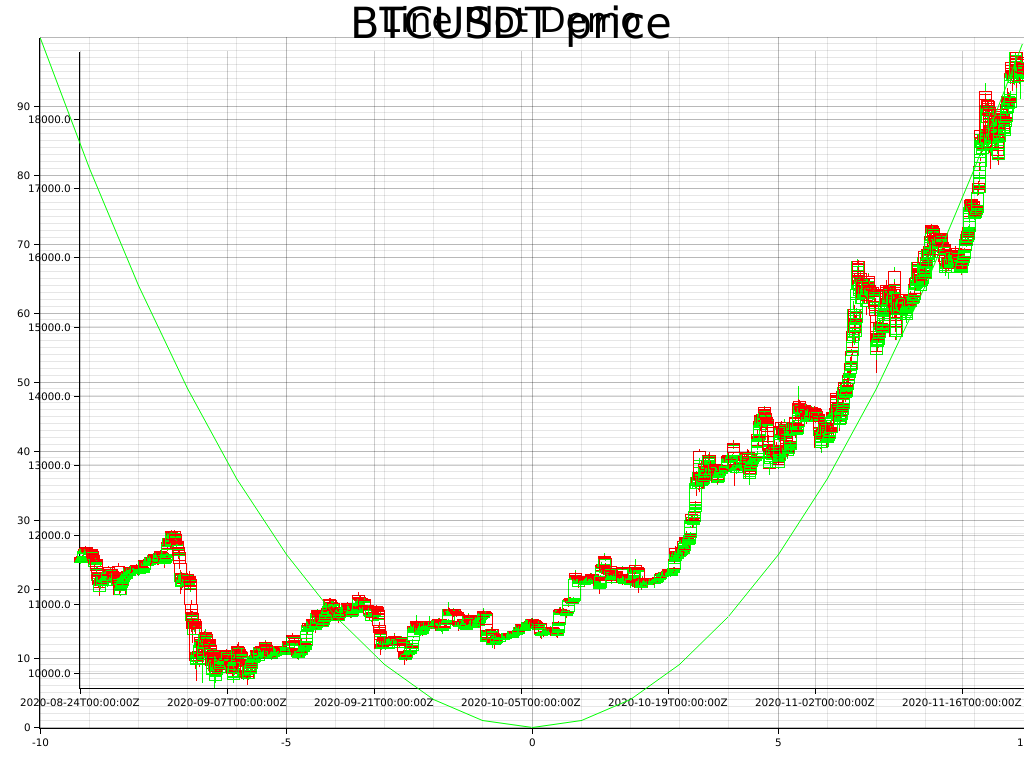
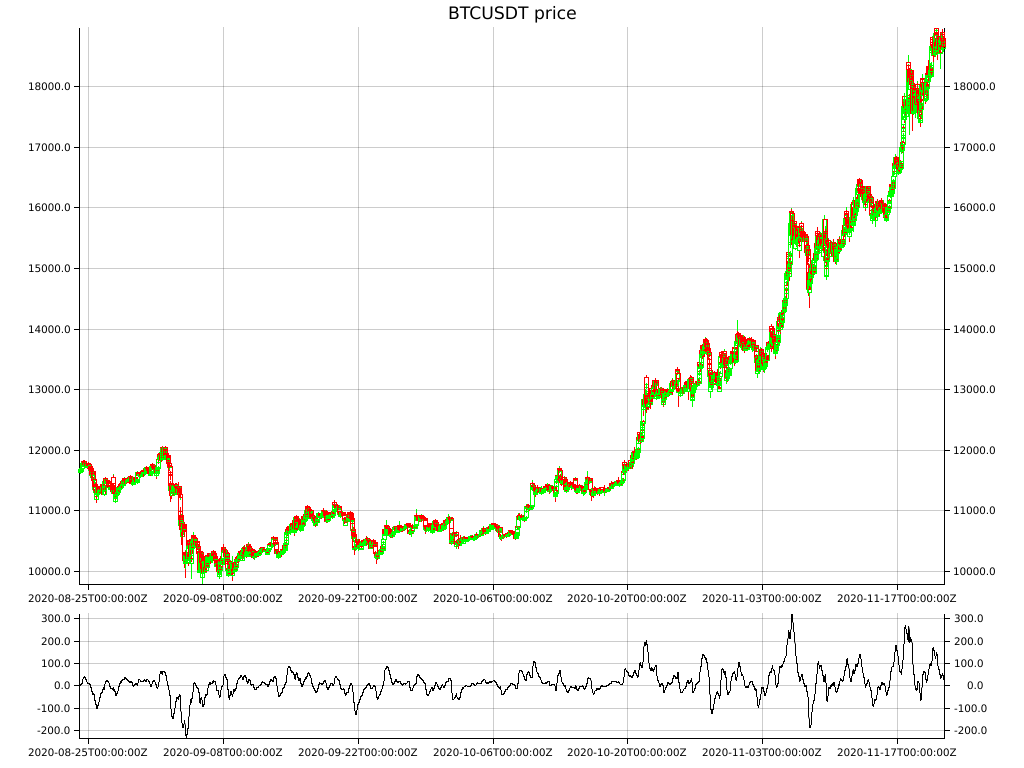
Lower mcad plot

Changed region(s): [[0.0, 0.0, 1.0, 1.0]]

diff --git a/src/plotter.rs b/src/plotter.rs
@@ -1,68 +1,104 @@
+use std::time::Instant;
+
 use chrono::Duration;
-use ifmt::iformat;
+use ifmt::{iformat, iprintln};
 use plotters::prelude::*;
 use rust_decimal::prelude::ToPrimitive;
 use rust_decimal_macros::dec;
 
 use crate::{analyzer::Technical, utils::str_to_datetime};
 
-pub fn plot(
+pub fn plot_tecals(
     symbol: &str,
     minutes: &u32,
-    data: &[Technical],
+    technicals: &[Technical],
 ) -> Result<(), Box<dyn std::error::Error>> {
-    //let data = get_data();
-    let root = BitMapBackend::new("out/stock.png", (1024, 768)).into_drawing_area();
-    root.fill(&WHITE)?;
+    let start = Instant::now();
 
-    let max_price = data.iter().fold(dec!(0), |acc, x| acc.max(x.candle.high));
-    let min_price = data.iter().fold(max_price, |acc, x| acc.min(x.candle.low));
-
-    let min_price = min_price.to_f32().unwrap();
-    let max_price = max_price.to_f32().unwrap();
-
+    let (upper, lower) = {
+        let root = BitMapBackend::new("out/stock.png", (1024, 768)).into_drawing_area();
+        root.split_vertically((80).percent())
+    };
     let from_date =
-        str_to_datetime(&data[0].candle.close_time) - Duration::minutes(*minutes as i64); /* +  */
-    let to_date = str_to_datetime(&data[data.len() - 1].candle.close_time)
+        str_to_datetime(&technicals[0].candle.close_time) - Duration::minutes(*minutes as i64);
+
+    let to_date = str_to_datetime(&technicals[technicals.len() - 1].candle.close_time)
         + Duration::minutes(*minutes as i64); /* */
 
-    let mut chart_candles = ChartBuilder::on(&root)
-        .x_label_area_size(80)
-        .y_label_area_size(80)
-        .caption(iformat!("{symbol} price"), ("sans-serif", 50.0).into_font())
-        .build_cartesian_2d(from_date..to_date, min_price..max_price)?;
+    {
+        upper.fill(&WHITE)?;
 
-    chart_candles
-        .configure_mesh()
-        .light_line_style(&WHITE)
-        .draw()?;
+        let max_price = technicals
+            .iter()
+            .fold(dec!(0), |acc, x| acc.max(x.candle.high));
+        let min_price = technicals
+            .iter()
+            .fold(max_price, |acc, x| acc.min(x.candle.low));
 
-    let series = data.iter().map(|x| {
-        CandleStick::new(
-            str_to_datetime(&x.candle.close_time),
-            x.candle.open.to_f32().unwrap(),
-            x.candle.high.to_f32().unwrap(),
-            x.candle.low.to_f32().unwrap(),
-            x.candle.close.to_f32().unwrap(),
-            &GREEN,
-            &RED,
-            12,
-        )
-    });
+        let min_price = min_price.to_f32().unwrap();
+        let max_price = max_price.to_f32().unwrap();
 
-    let candle_stick = chart_candles.draw_series(series)?;
+        let mut chart_candles = ChartBuilder::on(&upper)
+            .set_label_area_size(LabelAreaPosition::Left, 30)
+            .set_label_area_size(LabelAreaPosition::Right, 80)
+            .y_label_area_size(80)
+            .x_label_area_size(30)
+            .caption(iformat!("{symbol} price"), ("sans-serif", 20.0).into_font())
+            .build_cartesian_2d(from_date..to_date, min_price..max_price)?;
 
-    let mut ctx = ChartBuilder::on(&root)
-        .set_label_area_size(LabelAreaPosition::Left, 40)
-        .set_label_area_size(LabelAreaPosition::Bottom, 40)
-        .caption("Line Plot Demo", ("sans-serif", 40))
-        .build_cartesian_2d(-10..10, 0..100)
-        .unwrap();
+        chart_candles
+            .configure_mesh()
+            .light_line_style(&WHITE)
+            .draw()?;
 
-    ctx.configure_mesh().draw().unwrap();
+        let candle_series = technicals.iter().map(|x| {
+            CandleStick::new(
+                str_to_datetime(&x.candle.close_time),
+                x.candle.open.to_f32().unwrap(),
+                x.candle.high.to_f32().unwrap(),
+                x.candle.low.to_f32().unwrap(),
+                x.candle.close.to_f32().unwrap(),
+                &GREEN,
+                &RED,
+                4,
+            )
+        });
+        chart_candles.draw_series(candle_series)?
+    };
 
-    ctx.draw_series(LineSeries::new((-10..=10).map(|x| (x, x * x)), &GREEN))
-        .unwrap();
+    {
+        lower.fill(&WHITE)?;
+
+        let max_macd = technicals.iter().fold(0f64, |acc, t| acc.max(t.macd));
+        let min_macd = technicals.iter().fold(max_macd, |acc, t| acc.min(t.macd));
+        let min_macd = min_macd.to_f32().unwrap();
+        let max_macd = max_macd.to_f32().unwrap();
+
+        iprintln!("min_macd: {min_macd} max_macd: {max_macd}");
+
+        let mut chart_candles = ChartBuilder::on(&lower)
+            .set_label_area_size(LabelAreaPosition::Left, 30)
+            .set_label_area_size(LabelAreaPosition::Right, 80)
+            .y_label_area_size(80)
+            .x_label_area_size(30)
+            //   .caption(iformat!("{symbol} price"), ("sans-serif", 50.0).into_font())
+            .build_cartesian_2d(from_date..to_date, min_macd..max_macd)?;
+
+        chart_candles
+            .configure_mesh()
+            .light_line_style(&WHITE)
+            .draw()?;
+
+        let macd_fast_series = LineSeries::new(
+            technicals
+                .iter()
+                .map(|t| (str_to_datetime(&t.candle.close_time), t.macd as f32)),
+            &BLACK,
+        );
+
+        chart_candles.draw_series(macd_fast_series)?;
+    }
+    iprintln!("Plotting {technicals.len()}: {start.elapsed():?}");
 
     Ok(())
 }

diff --git a/src/analyzer.rs b/src/analyzer.rs
@@ -8,18 +8,21 @@ use ta::{indicators::ExponentialMovingAverage as Ema, Next};
 
 pub struct Technical<'a> {
     pub candle: &'a Candle,
+    // The MACD series proper
+    pub macd: f64,
+    // The "signal" or "average" series
     pub fast: f64,
-    pub slow: f64,
-    pub signal: f64,
+    // The "divergence" series which is the difference between the two
+    pub divergence: f64,
 }
 
 impl<'a> Technical<'a> {
     fn new(candle: &'a Candle, macd: (f64, f64, f64)) -> Self {
         Technical {
             candle,
-            fast: macd.0,
-            slow: macd.1,
-            signal: macd.2,
+            macd: macd.0,
+            fast: macd.1,
+            divergence: macd.2,
         }
     }
 }

diff --git a/src/main.rs b/src/main.rs
@@ -53,7 +53,7 @@ async fn main() -> anyhow::Result<()> {
         let candles_ref: Vec<_> = candles.iter().collect();
         let analyzer = Analyzer::new(candles_ref.as_slice());
         let tacs = analyzer.run();
-        plotter::plot("BTCUSDT", &15, &tacs).unwrap();
+        plotter::plot_tecals("BTCUSDT", &15, &tacs).unwrap();
     }
 
     //assert_e!(row.0, 150);
